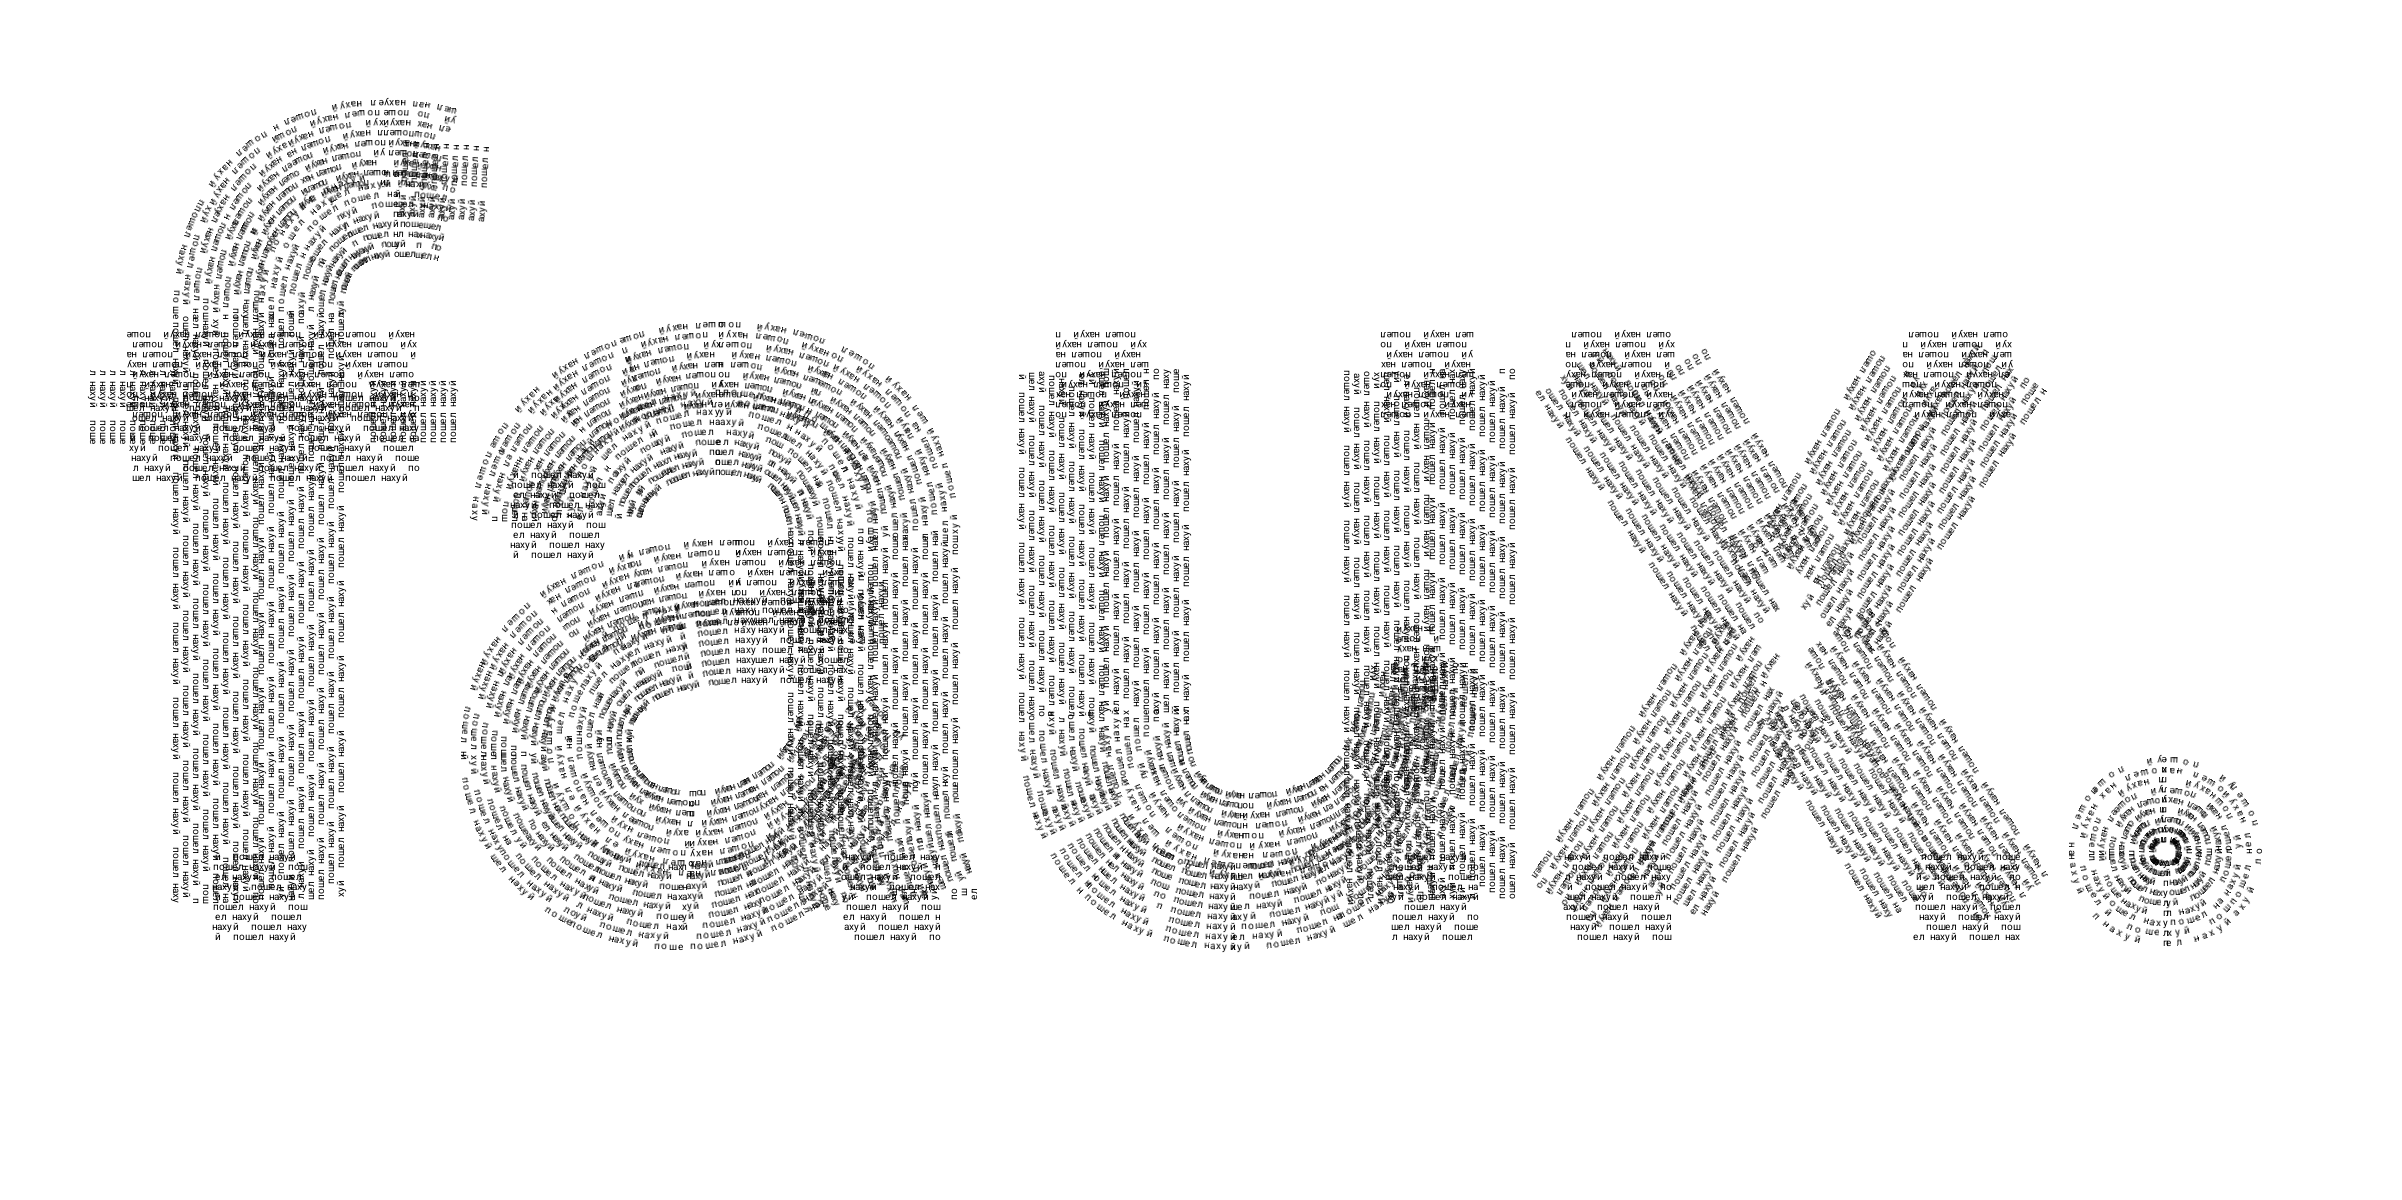
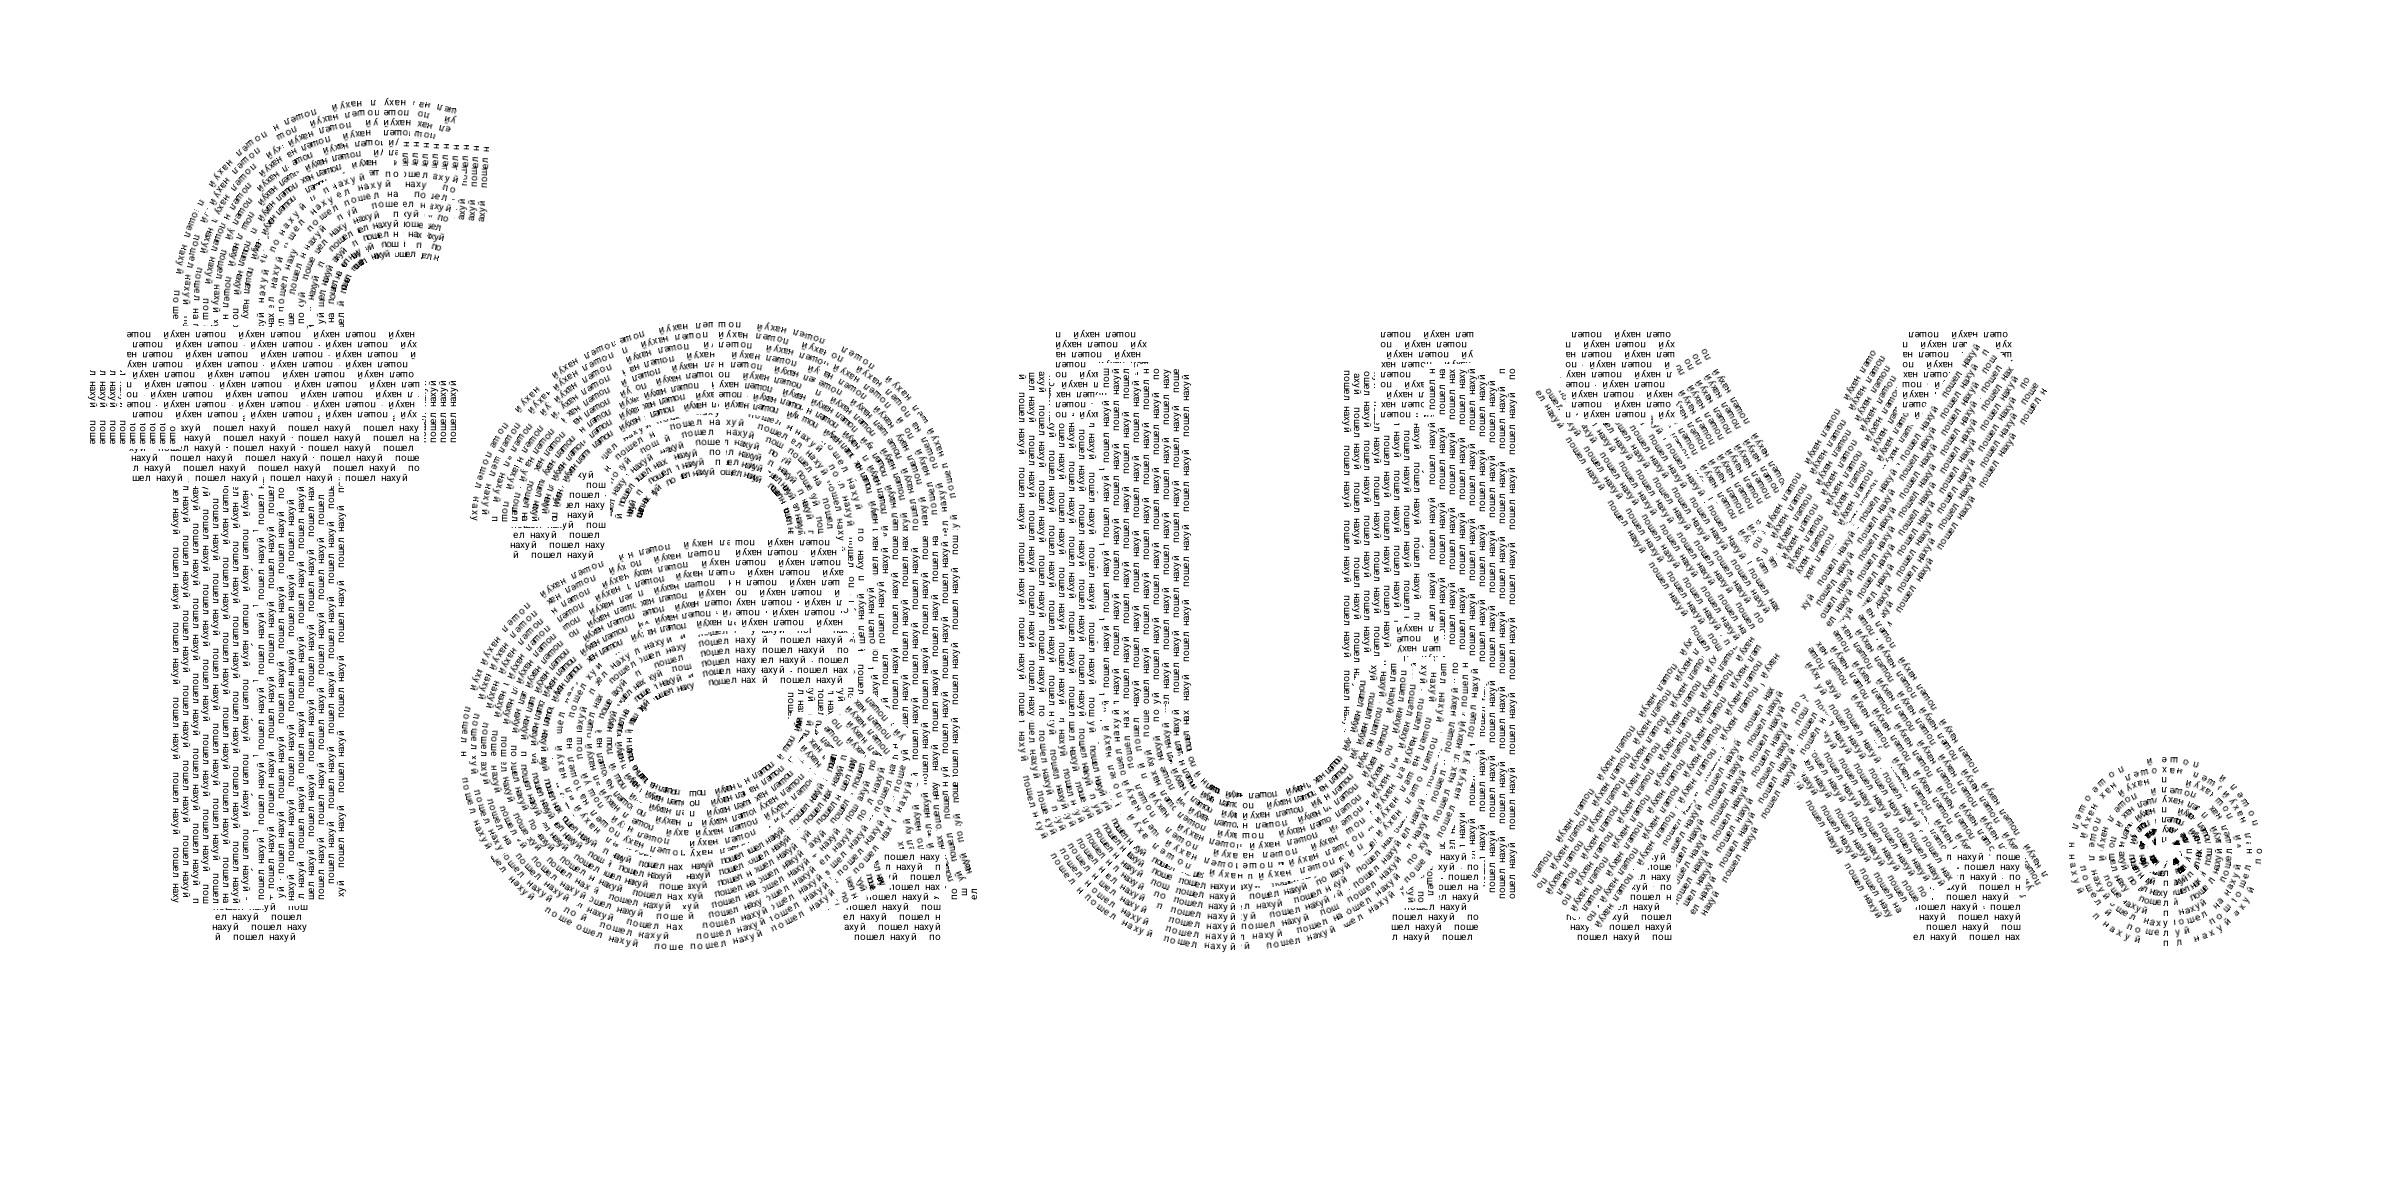
add askii rasterizer

diff --git a/renderer/text.go b/renderer/text.go
@@ -288,14 +288,29 @@ func (tr *TextRenderer) getGlyphSegments(r rune, size float64) ([]geom.PathSegme
 	return result, fixedToFloat(adv), nil
 }
 
-// renderFillerGlyph renders a single filler glyph at a position with rotation
-// If drawBg is true, draws a background rectangle first
+// renderFillerGlyphToCanvas renders a single filler glyph to a target canvas
 // The glyph is centered at pos using its horizontal center of mass
-func (tr *TextRenderer) renderFillerGlyph(r rune, pos geom.Point, tangent geom.Point, scale float64, drawBg bool, bgColor, fgColor color.RGBA) float64 {
-	// Get pre-rendered glyph from cache
+func (tr *TextRenderer) renderFillerGlyphToCanvas(r rune, pos geom.Point, tangent geom.Point, scale float64, fgColor color.RGBA, target *Canvas) float64 {
 	entry := tr.GlyphCache.Get(r, scale)
 	if entry.img == nil {
 		return float64(entry.width)
+	}
+
+	// Rotate to follow tangent, +π to flip right-side up since we traverse paths backwards
+	angle := math.Atan2(tangent.Y, tangent.X) + math.Pi
+
+	// Composite the rotated glyph onto the target canvas
+	target.DrawRotatedImage(entry.img, pos.X, pos.Y, angle, entry.centerX, entry.originY, fgColor)
+
+	return float64(entry.width)
+}
+
+// renderFillerBackgroundToCanvas renders a background rectangle for a glyph to a target canvas
+// padding is the extra space around the glyph bounding box
+func (tr *TextRenderer) renderFillerBackgroundToCanvas(r rune, pos geom.Point, tangent geom.Point, scale float64, padding float64, bgColor color.RGBA, target *Canvas) {
+	entry := tr.GlyphCache.Get(r, scale)
+	if entry.img == nil {
+		return
 	}
 
 	// Rotate to follow tangent, +π to flip right-side up since we traverse paths backwards
@@ -305,32 +320,25 @@ func (tr *TextRenderer) renderFillerGlyph(r rune, pos geom.Point, tangent geom.P
 	w := float64(bounds.Dx())
 	h := float64(bounds.Dy())
 
-	// If drawing background, calculate transformed bounding box corners and draw rect
-	if drawBg {
-		// Corners relative to center of mass (which is at centerX, originY in the image)
-		corners := []geom.Point{
-			{X: -float64(entry.centerX), Y: -float64(entry.originY)},
-			{X: w - float64(entry.centerX), Y: -float64(entry.originY)},
-			{X: w - float64(entry.centerX), Y: h - float64(entry.originY)},
-			{X: -float64(entry.centerX), Y: h - float64(entry.originY)},
-		}
-		for i, c := range corners {
-			corners[i] = c.Rotate(angle).Add(pos)
-		}
-		tr.Rasterizer.AddLine(corners[0], corners[1])
-		tr.Rasterizer.AddLine(corners[1], corners[2])
-		tr.Rasterizer.AddLine(corners[2], corners[3])
-		tr.Rasterizer.AddLine(corners[3], corners[0])
-		tr.Rasterizer.Fill(bgColor)
-		tr.Rasterizer.Clear()
+	// Create a rasterizer for the target canvas
+	rast := NewRasterizer(target)
+
+	// Corners relative to center of mass with padding
+	pad := padding
+	corners := []geom.Point{
+		{X: -float64(entry.centerX) - pad, Y: -float64(entry.originY) - pad},
+		{X: w - float64(entry.centerX) + pad, Y: -float64(entry.originY) - pad},
+		{X: w - float64(entry.centerX) + pad, Y: h - float64(entry.originY) + pad},
+		{X: -float64(entry.centerX) - pad, Y: h - float64(entry.originY) + pad},
 	}
-
-	// Composite the rotated glyph onto the canvas
-	// Center the glyph at pos using its center of mass (centerX) for horizontal positioning
-	tr.Canvas.DrawRotatedImage(entry.img, pos.X, pos.Y, angle, entry.centerX, entry.originY, fgColor)
-
-	// Return tight width of the glyph
-	return float64(entry.width)
+	for i, c := range corners {
+		corners[i] = c.Rotate(angle).Add(pos)
+	}
+	rast.AddLine(corners[0], corners[1])
+	rast.AddLine(corners[1], corners[2])
+	rast.AddLine(corners[2], corners[3])
+	rast.AddLine(corners[3], corners[0])
+	rast.Fill(bgColor)
 }
 
 // RenderTextWithFiller renders main text using filler text along the curves
@@ -345,12 +353,15 @@ func (tr *TextRenderer) RenderTextWithFiller(settings RenderSettings, startX, ba
 		}
 	}
 
-	cursorX := startX
 	fillerRunes := []rune(settings.FillerText)
 	if len(fillerRunes) == 0 {
 		return
 	}
 
+	bgColor := color.RGBA{255, 255, 255, 255} // white background
+	bgPadding := 5.0                          // 5px padding around each letter's bbox
+
+	cursorX := startX
 	fillerIdx := 0
 
 	for _, mainRune := range settings.MainText {
@@ -364,6 +375,12 @@ func (tr *TextRenderer) RenderTextWithFiller(settings RenderSettings, startX, ba
 			if segLength < 1.0 {
 				continue
 			}
+
+			// Create temporary canvases for this segment
+			// bgCanvas: white background rectangles (clears space for letters)
+			// letterCanvas: the actual filler letters
+			bgCanvas := NewCanvas(tr.Canvas.Width, tr.Canvas.Height)
+			letterCanvas := NewCanvas(tr.Canvas.Width, tr.Canvas.Height)
 
 			for row := 0; row < numRows; row++ {
 				// Pack rows tightly based on filler height, centered on curve
@@ -393,8 +410,12 @@ func (tr *TextRenderer) RenderTextWithFiller(settings RenderSettings, startX, ba
 					// Use runes in reverse order to counteract backwards path traversal
 					reverseIdx := len(fillerRunes) - 1 - (fillerIdx % len(fillerRunes))
 					fillerRune := fillerRunes[reverseIdx]
-					bgColor := color.RGBA{255, 255, 255, 255} // white background
-					charAdvance := tr.renderFillerGlyph(fillerRune, canvasPos, tangent, fillerHeight, settings.DrawBackground, bgColor, col)
+
+					// Draw background rectangle to bgCanvas
+					tr.renderFillerBackgroundToCanvas(fillerRune, canvasPos, tangent, fillerHeight, bgPadding, bgColor, bgCanvas)
+
+					// Draw letter to letterCanvas
+					charAdvance := tr.renderFillerGlyphToCanvas(fillerRune, canvasPos, tangent, fillerHeight, col, letterCanvas)
 
 					if charAdvance < 1 {
 						charAdvance = fillerHeight * 0.6
@@ -403,6 +424,12 @@ func (tr *TextRenderer) RenderTextWithFiller(settings RenderSettings, startX, ba
 					fillerIdx++
 				}
 			}
+
+			// Composite this segment's layers onto main canvas:
+			// 1. First apply white backgrounds (clears space)
+			// 2. Then apply letters on top
+			tr.Canvas.CompositeOver(bgCanvas)
+			tr.Canvas.CompositeOver(letterCanvas)
 		}
 
 		cursorX += advance

diff --git a/renderer/canvas.go b/renderer/canvas.go
@@ -124,3 +124,17 @@ func (c *Canvas) DrawRotatedImage(img *image.Alpha, x, y float64, angle float64,
 		}
 	}
 }
+
+// CompositeOver blends another canvas onto this canvas using alpha compositing
+func (c *Canvas) CompositeOver(src *Canvas) {
+	for y := 0; y < c.Height && y < src.Height; y++ {
+		for x := 0; x < c.Width && x < src.Width; x++ {
+			srcPx := src.Img.RGBAAt(x, y)
+			if srcPx.A == 0 {
+				continue
+			}
+			alpha := float64(srcPx.A) / 255.0
+			c.BlendPixel(x, y, srcPx, alpha)
+		}
+	}
+}
